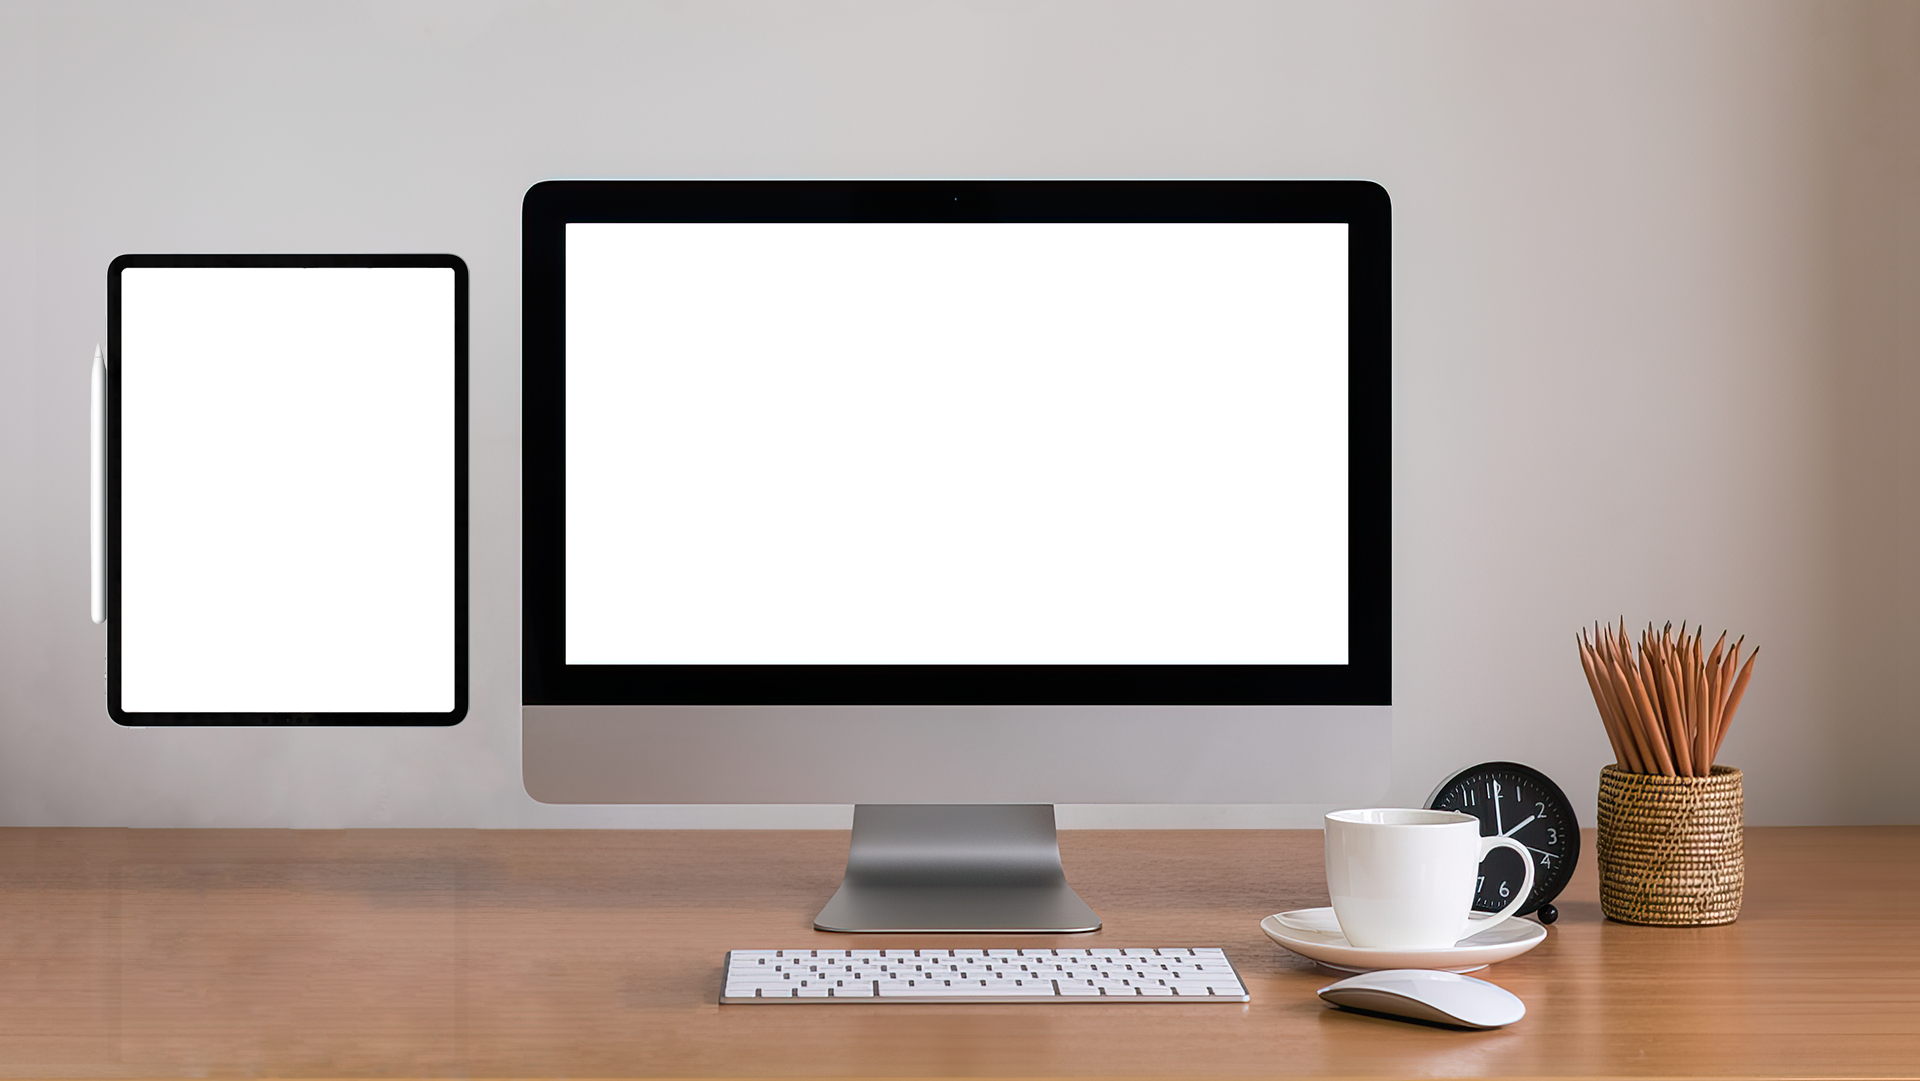
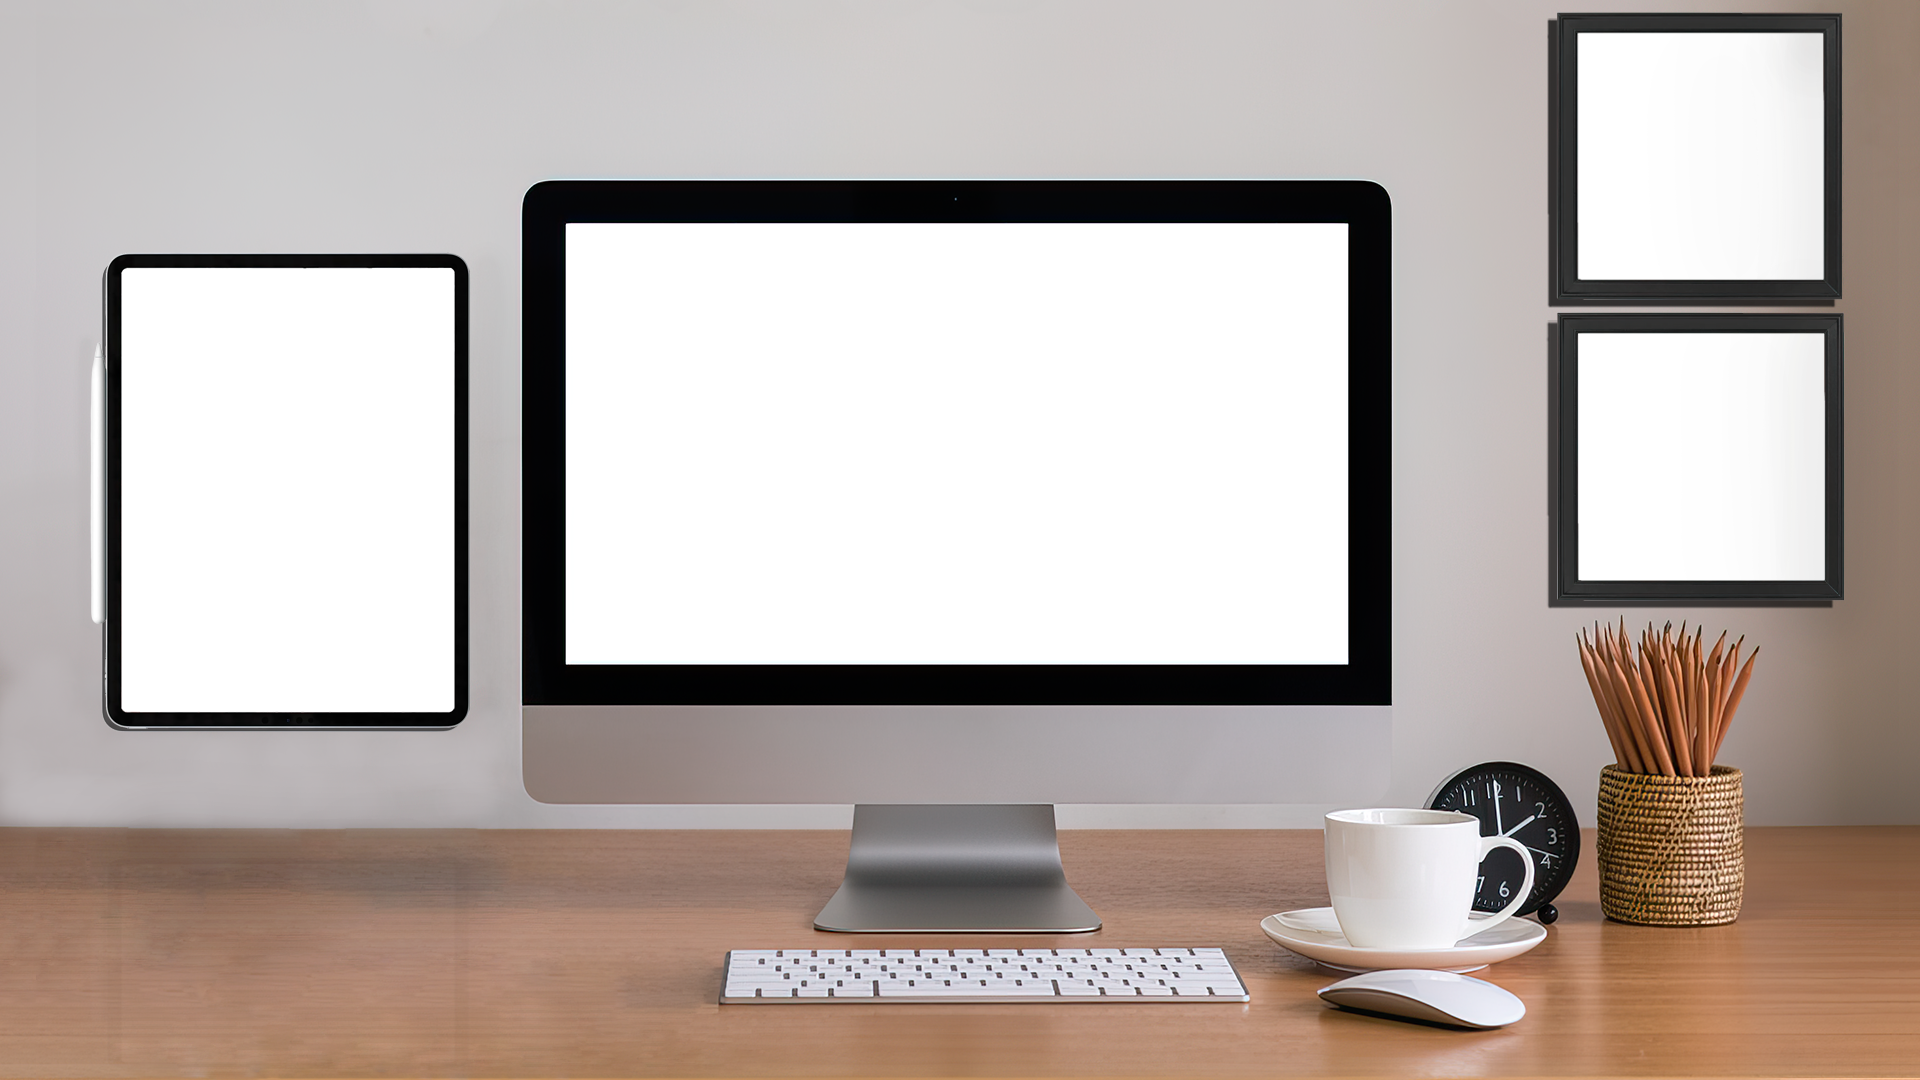
commit 7 - photo frames

diff --git a/css/styles.css b/css/styles.css
@@ -34,7 +34,7 @@ img {
     max-width: 750px;
     max-height: 750px;
     border-radius: 0%;
-    width: 60%;
+    width: 55%;
 }
 
 .box {
@@ -69,7 +69,8 @@ img {
 }
 .box4 {
     position: absolute;
-    padding-left: 75vw;
+    padding-left: 77vw;
+    padding-top: 0vh;
     justify-items: center;
     align-items: center;
 }
@@ -94,8 +95,8 @@ img {
 
 .box8 {
     position: absolute;
-    padding-left: 75vw;
-    padding-top: 30vh;
+    padding-left: 77vw;
+    padding-top: 25vh;
     justify-items: center;
     align-items: center;
 }
